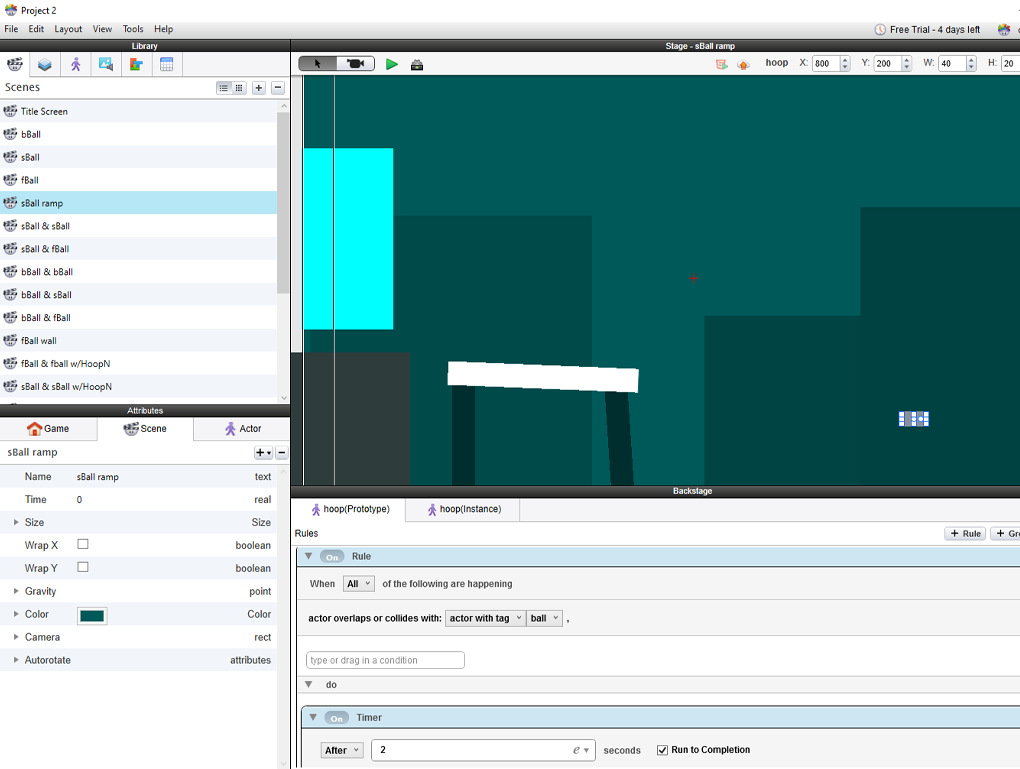
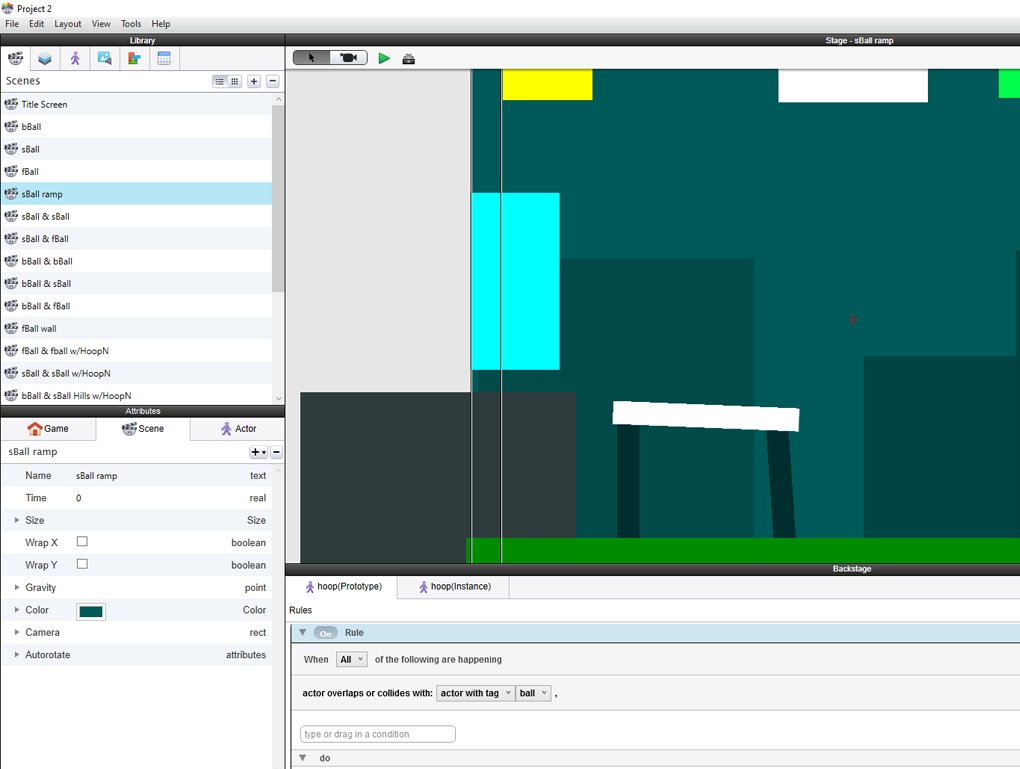
d

diff --git a/caseGoalAndSpace.html b/caseGoalAndSpace.html
@@ -40,7 +40,7 @@
                             </div>
                             <p>The final product was a functional game prototype comprised of <strong>16 different levels</strong>, with the player tasked with catching every ball in a level with a set number of misses allowed. It was my first major experience with designing a game independently and the product, while aesthetically barebones, ended up being very <strong>adaptable</strong> in regards to <strong>inserting new mechanics and features</strong>. I found that I did not focus much on visuals or sound design when under time constraints, which, coupled with my affinity for <strong>modularity</strong>, inspired my design process for my third project.</p>
                             <div class="image-container" style="text-align: center; margin-top: 20px; padding: 10px; background-color: rgba(255, 255, 255, 0.45); border-radius: 10px;">
-                                <img class="case-study-image" src="images/projectImages/dpeImgs/Project 2 FINAL pic6.png alt="Case Study Image" style="width: 100%; height: auto;">
+                                <img class="case-study-image" src="images/projectImages/dpeImgs/Project 2 FINAL pic6.png" alt="Case Study Image" style="width: 100%; height: auto;">
                                 <hr style="color: black;">
                                 <p class="case-study-caption">Another excerpt from one of the deliverables I produced for AC.</p>
                             </div>
@@ -59,32 +59,64 @@
                             <p>After an initial release and redesign following feedback, the final product contained <strong>13 levels</strong> alongside numerous illustrated assets and some elements of world-building (including a descriptive intro, a cutscene for reaching the end, and multiple endings). Building on my work in "Own Goal", I was able to refine my methods when designing "Nautilus's Conundrum". I once again found an <strong>affinity for modular workflows</strong>, as they dramatically sped up development time. Due to being subject to more feedback, I found myself being receptive to revision; When given <strong>descriptive suggestions and feedback</strong>, I was able to <strong>effectively implement them</strong> into the game, helped by the modular workflow.</p>
                         </div>
                         <hr>
-                        <script>
-                            function toggleCaseStudy() {
-                                var ownGoal = document.getElementById('own-goal');
-                                var nautilusConundrum = document.getElementById('nautilus-conundrum');
-                                var button = document.getElementById('toggle-button');
+<script>
+    function toggleCaseStudy() {
+        var ownGoal = document.getElementById('own-goal');
+        var nautilusConundrum = document.getElementById('nautilus-conundrum');
+        var button = document.getElementById('toggle-button');
 
-                                if (ownGoal.style.display === "none") {
-                                    ownGoal.style.display = "block";
-                                    nautilusConundrum.style.display = "none";
-                                    button.innerHTML = 'View Nautilus\'s Conundrum →';
-                                    document.body.style.backgroundImage = "url('images/projectImages/dpeImgs/ogBackground.gif')";
-                                } else {
-                                    ownGoal.style.display = "none";
-                                    nautilusConundrum.style.display = "block";
-                                    button.innerHTML = '← View Own Goal';
-                                    document.body.style.backgroundImage = "url('images/projectImages/dpeImgs/ncBackground.gif')";
-                                }
-                            }
+        if (ownGoal.style.display === "none") {
+            ownGoal.style.display = "block";
+            nautilusConundrum.style.display = "none";
+            button.innerHTML = 'View Nautilus\'s Conundrum →';
+            document.body.style.backgroundImage = "url('images/projectImages/dpeImgs/ogBackground.gif')";
+        } else {
+            ownGoal.style.display = "none";
+            nautilusConundrum.style.display = "block";
+            button.innerHTML = '← View Own Goal';
+            document.body.style.backgroundImage = "url('images/projectImages/dpeImgs/ncBackground.gif')";
+        }
+    }
 
-                            // Set default view
-                            document.addEventListener('DOMContentLoaded', function() {
-                                document.getElementById('own-goal').style.display = "block";
-                                document.getElementById('nautilus-conundrum').style.display = "none";
-                                document.body.style.backgroundImage = "url('images/projectImages/dpeImgs/ogBackground.gif')";
-                            });
-                        </script>
+    document.addEventListener('DOMContentLoaded', function() {
+        document.getElementById('own-goal').style.display = "block";
+        document.getElementById('nautilus-conundrum').style.display = "none";
+        document.body.style.backgroundImage = "url('images/projectImages/dpeImgs/ogBackground.gif')";
+
+        const overlay = document.getElementById('overlay');
+        const overlayImg = document.getElementById('overlay-img');
+        const overlayCaption = document.getElementById('overlay-caption');
+
+        document.querySelectorAll('.case-study-image').forEach(image => {
+            image.addEventListener('click', function(event) {
+                overlayImg.src = event.target.src;
+                overlayImg.alt = event.target.alt;
+
+                const caption = event.target.parentElement.querySelector('.case-study-caption');
+                overlayCaption.textContent = caption ? caption.textContent : '';
+                overlayImg.style.width = '50%';
+                overlayImg.style.cursor = 'zoom-in';
+                overlay.style.display = 'flex';
+            });
+        });
+
+        overlay.addEventListener('click', function(event) {
+            if (event.target !== overlayImg) {
+                overlay.style.display = 'none';
+            }
+        });
+
+        overlayImg.addEventListener('click', function() {
+            if (overlayImg.style.width === '50%') {
+                overlayImg.style.width = '100%';
+                overlayImg.style.cursor = 'zoom-out';
+            } else {
+                overlayImg.style.width = '50%';
+                overlayImg.style.cursor = 'zoom-in';
+            }
+        });
+    });
+</script>
                     <button id="toggle-button" onclick="toggleCaseStudy()">View Nautilus's Conundrum →</button>
                     </div>
                 </div>
@@ -96,6 +128,12 @@
         <div id="logo">
             <img src="images/PersonalLogo.gif" alt="DM's Logo">
         </div>
+    </div>
+
+    <!-- Overlay for image zoom -->
+    <div id="overlay" style="display: none; position: fixed; top: 0; left: 0; width: 100%; height: 100%; background-color: rgba(0, 0, 0, 0.8); justify-content: center; align-items: center; z-index: 1000;">
+        <img id="overlay-img" style="max-width: 90%; max-height: 90%; cursor: zoom-in;" alt="Zoomed Image">
+        <p id="overlay-caption" style="color: white; text-align: center; margin-top: 10px;"></p>
     </div>
     <script src="functions.js"></script>
 </body>

diff --git a/scrollStyle.css b/scrollStyle.css
@@ -148,7 +148,6 @@ p {
     display: flex;
     flex-direction: column;
     box-sizing: border-box;
-    transform: translateZ(0); /* Force GPU rendering to preserve blur */
 }
 
 .scrollContainerBox#clickableBox, .scrollContainerBox#clickableBoxSmall {
